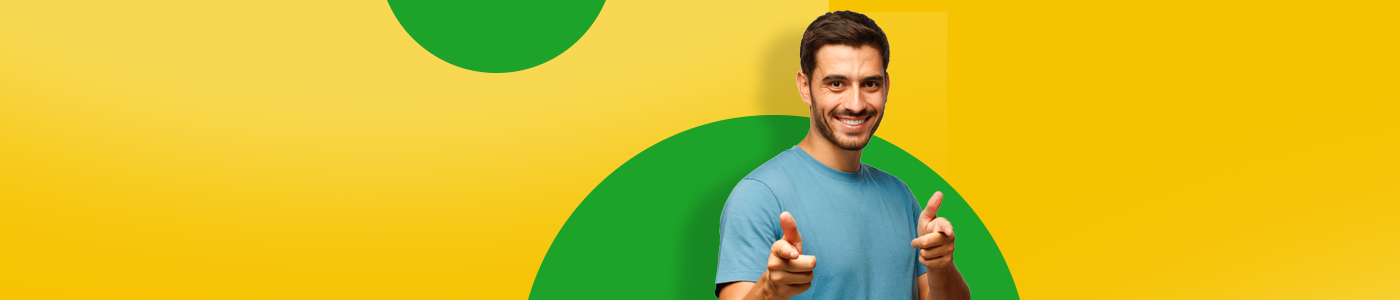
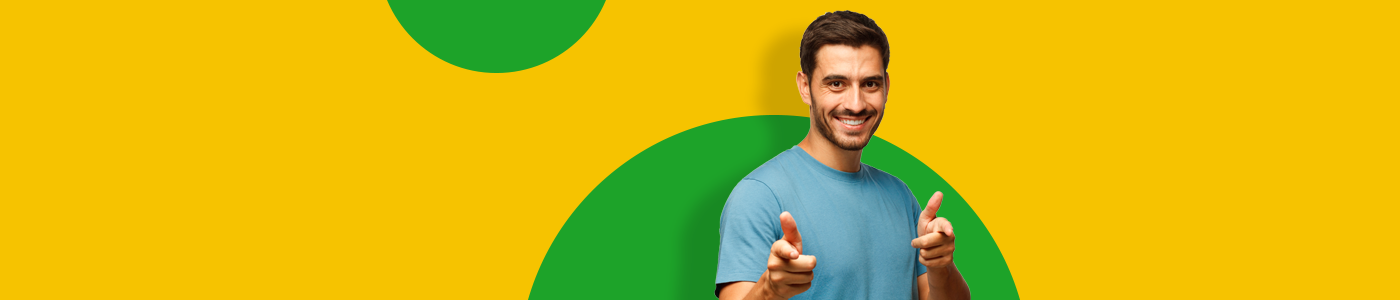
background image improvement in loans and deposits

diff --git a/src/app/home/loans/loans-filter/loans-filter.component.scss b/src/app/home/loans/loans-filter/loans-filter.component.scss
@@ -38,15 +38,17 @@
 
    .banner-wrapper {
      display: block;
-    background-image: url('../../../../assets//images/loans-banner-cover.jpeg');
+    background-image: url('../../../../assets//images/loans-banner-cover.png');
     height: var(--banner-height);
     background-repeat: no-repeat;
+    background-color: #F6C300;
+    min-height:var(--banner-min-height);
     .banner {
       display: flex;
       flex-direction: column;
       justify-content: center;
       padding: 40px 0;
-      height: var(--banner-height);
+      min-height:var(--banner-min-height);
         .banner__title {
             display: flex;
             flex-direction: column;
@@ -92,13 +94,13 @@
 }
   @media (max-width: 992px) {
    .banner-wrapper {
-    background-position-x: right;
-    background-position-x: -336px;
+   // background-position-x: right;
+   // background-position-x: -336px;
    }
  }
  @media (max-width: 768px) {
    .banner-wrapper {
-    background-position-x: right;
+  //  background-position-x: right;
    // height: 25.75rem;
    }
  }
@@ -106,11 +108,12 @@
       .banner-wrapper {
         background: #ffd740;
         background-position-x: -590px;
+        background-image: none;
       }
  }
  @media (max-width: 450px) {
         .banner-wrapper {
-            background-position-x: -625px;
+      //      background-position-x: -625px;
         }
  }
  @media (max-width: 768px) {

diff --git a/src/app/home/loans/loans.module.ts b/src/app/home/loans/loans.module.ts
@@ -2,7 +2,6 @@ import { NgModule } from '@angular/core';
 import { CommonModule } from '@angular/common';
 import { LoansComponent } from './loans.component';
 import { LoansRoutingModule } from './loans.routing';
-import { LoansBannerComponent } from './loans-banner/loans-banner.component';
 import { SharedModule } from 'src/app/shared/shared.module';
 import { LoansTableComponent } from './loans-table/loans-table.component';
 import {  ReactiveFormsModule} from "@angular/forms";
@@ -14,7 +13,6 @@ import { LoansCardsComponent } from './loans-table/loans-cards/loans-cards.compo
 @NgModule({
   declarations: [
     LoansComponent,
-     LoansBannerComponent,
      LoansTableComponent,
       LoansCompareComponent,
       LoansFilterComponent,

diff --git a/src/app/home/deposits/deposits-filter/deposits-filter.component.scss b/src/app/home/deposits/deposits-filter/deposits-filter.component.scss
@@ -42,6 +42,7 @@
     height: var(--banner-height);
     background-repeat: no-repeat;
     min-height:var(--banner-min-height);
+    background-color: #F6C300;
     .banner {
       display: flex;
       flex-direction: column;
@@ -100,7 +101,6 @@
  @media (max-width: 768px) {
    .banner-wrapper {
     background-position-x: right;
-   // height: 25.75rem;
    }
  }
  @media (max-width: 576px) {

diff --git a/src/app/home/loans/loans-table/loans-table.component.ts b/src/app/home/loans/loans-table/loans-table.component.ts
@@ -94,7 +94,6 @@ export class LoansTableComponent implements OnInit, OnDestroy {
       )
       .subscribe(res => {
         this.loanGroupProducts = res;
-        // this.loanProducts = flatten(res.map((group) => group.list));
         this.filteredGroupProducts = [...this.loanGroupProducts];
         switchToView('#loans-table-filter');
       });

diff --git a/src/app/home/deposits/deposits-calc-container/deposits-calc-container.component.scss b/src/app/home/deposits/deposits-calc-container/deposits-calc-container.component.scss
@@ -1,6 +1,6 @@
 :host {
   display: block;
-  background-image: url('../../../../assets//images/loans-banner-cover.jpeg');
+  background-image: url('../../../../assets//images/loans-banner-cover.png');
   height: 18.75rem;
   background-repeat: no-repeat;
   @media (max-width: 992px) {
